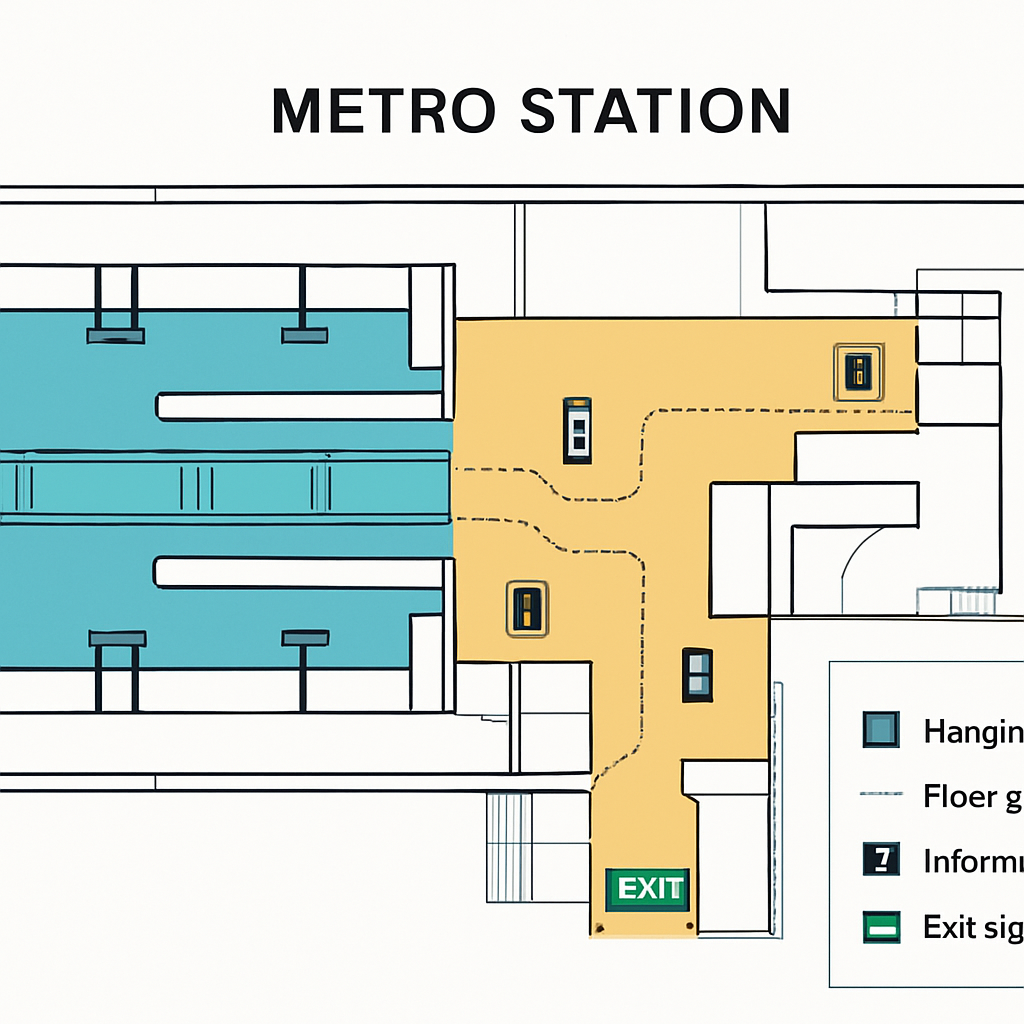
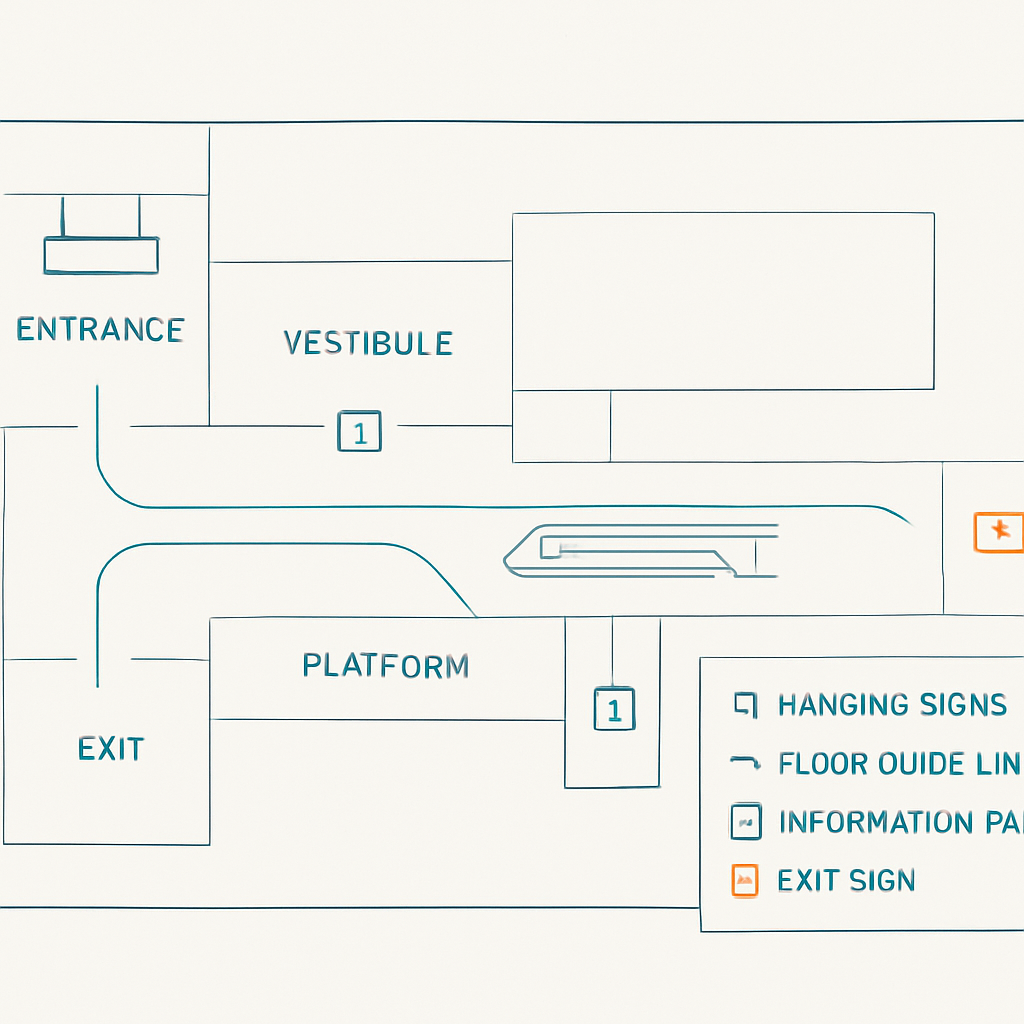
feat: add BeforeAfterSlider and SectionNav components with new images

diff --git a/app/practica5/before-after-slider.tsx b/app/practica5/before-after-slider.tsx
@@ -1,0 +1,100 @@
+"use client"
+
+import Image from "next/image"
+import { useRef, useState, useCallback } from "react"
+import { MoveHorizontal } from "lucide-react"
+
+export function BeforeAfterSlider() {
+  const [position, setPosition] = useState(50)
+  const containerRef = useRef<HTMLDivElement>(null)
+  const draggingRef = useRef(false)
+
+  const updateFromClientX = useCallback((clientX: number) => {
+    const el = containerRef.current
+    if (!el) return
+    const rect = el.getBoundingClientRect()
+    const pct = ((clientX - rect.left) / rect.width) * 100
+    setPosition(Math.min(100, Math.max(0, pct)))
+  }, [])
+
+  const onPointerDown = (e: React.PointerEvent) => {
+    draggingRef.current = true
+    ;(e.target as HTMLElement).setPointerCapture?.(e.pointerId)
+    updateFromClientX(e.clientX)
+  }
+
+  const onPointerMove = (e: React.PointerEvent) => {
+    if (!draggingRef.current) return
+    updateFromClientX(e.clientX)
+  }
+
+  const onPointerUp = () => {
+    draggingRef.current = false
+  }
+
+  const onKeyDown = (e: React.KeyboardEvent) => {
+    if (e.key === "ArrowLeft") setPosition((p) => Math.max(0, p - 4))
+    if (e.key === "ArrowRight") setPosition((p) => Math.min(100, p + 4))
+  }
+
+  return (
+    <div
+      ref={containerRef}
+      className="relative aspect-[16/9] w-full overflow-hidden rounded-xl border border-teal-100 shadow-sm select-none touch-none"
+      onPointerMove={onPointerMove}
+      onPointerUp={onPointerUp}
+      onPointerLeave={onPointerUp}
+    >
+      {/* After (base layer) */}
+      <Image
+        src="/images/practica5/compare-after.png"
+        alt="После: чистая навигационная система"
+        fill
+        className="object-cover"
+        priority
+      />
+      <span className="absolute bottom-3 right-3 z-20 px-3 py-1 rounded-full bg-teal-700 text-white text-xs font-medium">
+        После
+      </span>
+
+      {/* Before (clipped layer) */}
+      <div
+        className="absolute inset-0 overflow-hidden"
+        style={{ clipPath: `inset(0 ${100 - position}% 0 0)` }}
+      >
+        <Image
+          src="/images/practica5/compare-before.png"
+          alt="До: визуальный хаос и разрозненные указатели"
+          fill
+          className="object-cover"
+          priority
+        />
+        <span className="absolute bottom-3 left-3 px-3 py-1 rounded-full bg-amber-500 text-white text-xs font-medium">
+          До
+        </span>
+      </div>
+
+      {/* Handle */}
+      <div
+        className="absolute top-0 bottom-0 z-30 flex items-center justify-center"
+        style={{ left: `calc(${position}% - 1px)` }}
+      >
+        <div className="absolute top-0 bottom-0 w-0.5 bg-white shadow-[0_0_0_1px_rgba(15,118,110,0.4)]" />
+        <button
+          type="button"
+          aria-label="Перетащите, чтобы сравнить до и после"
+          role="slider"
+          aria-valuenow={Math.round(position)}
+          aria-valuemin={0}
+          aria-valuemax={100}
+          tabIndex={0}
+          onPointerDown={onPointerDown}
+          onKeyDown={onKeyDown}
+          className="relative flex h-11 w-11 cursor-ew-resize items-center justify-center rounded-full bg-white text-teal-700 shadow-md ring-1 ring-teal-200 focus:outline-none focus:ring-2 focus:ring-teal-500"
+        >
+          <MoveHorizontal className="h-5 w-5" />
+        </button>
+      </div>
+    </div>
+  )
+}

diff --git a/app/practica5/section-nav.tsx b/app/practica5/section-nav.tsx
@@ -1,0 +1,69 @@
+"use client"
+
+import { useEffect, useState } from "react"
+
+const sections = [
+  { id: "context", label: "Контекст" },
+  { id: "principles", label: "Принципы" },
+  { id: "scheme", label: "Схема" },
+  { id: "visualizations", label: "Фотомонтажи" },
+  { id: "before-after", label: "До / После" },
+  { id: "scenario", label: "Сценарий" },
+  { id: "perception", label: "Проверка" },
+]
+
+export function SectionNav() {
+  const [active, setActive] = useState<string>("context")
+  const [visible, setVisible] = useState(false)
+
+  useEffect(() => {
+    const onScroll = () => setVisible(window.scrollY > 400)
+    onScroll()
+    window.addEventListener("scroll", onScroll, { passive: true })
+    return () => window.removeEventListener("scroll", onScroll)
+  }, [])
+
+  useEffect(() => {
+    const observer = new IntersectionObserver(
+      (entries) => {
+        entries.forEach((entry) => {
+          if (entry.isIntersecting) setActive(entry.target.id)
+        })
+      },
+      { rootMargin: "-40% 0px -55% 0px" },
+    )
+    sections.forEach((s) => {
+      const el = document.getElementById(s.id)
+      if (el) observer.observe(el)
+    })
+    return () => observer.disconnect()
+  }, [])
+
+  return (
+    <nav
+      aria-label="Разделы работы"
+      className={`sticky top-0 z-40 border-b border-teal-100 bg-[#f8fafc]/85 backdrop-blur transition-opacity duration-300 ${
+        visible ? "opacity-100" : "opacity-0 pointer-events-none"
+      }`}
+    >
+      <div className="max-w-6xl mx-auto px-4">
+        <ul className="flex gap-1 overflow-x-auto py-2 no-scrollbar">
+          {sections.map((s) => (
+            <li key={s.id} className="flex-none">
+              <a
+                href={`#${s.id}`}
+                className={`block whitespace-nowrap rounded-full px-3 py-1.5 text-sm transition-colors ${
+                  active === s.id
+                    ? "bg-teal-700 text-white"
+                    : "text-teal-800/70 hover:bg-teal-100"
+                }`}
+              >
+                {s.label}
+              </a>
+            </li>
+          ))}
+        </ul>
+      </div>
+    </nav>
+  )
+}
